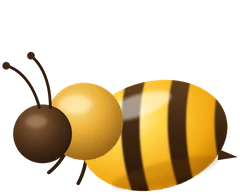
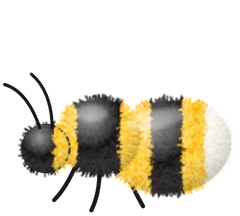
kkotbat: readable labels + orange new badge, 10-color palette without black, bumblebee, ladybugs, fewer critters
Claude-Session: https://claude.ai/code/session_0184yXFLd3iSeN51Kdjs7ciF

diff --git a/kkotbat/css/style.css b/kkotbat/css/style.css
@@ -480,17 +480,19 @@ img { -webkit-user-drag: none; user-select: none; }
 .pf-label {
   position: absolute; left: 50%; bottom: calc(100% + 8px); transform: translate(-50%, 4px);
   padding: 7px 14px; border-radius: 999px; white-space: nowrap;
-  background: linear-gradient(160deg, rgba(255,255,255,.78) 0%, rgba(255,255,255,.5) 100%);
+  background: linear-gradient(160deg, rgba(255,255,255,.94) 0%, rgba(255,255,255,.8) 100%);
   backdrop-filter: blur(16px) saturate(.6); -webkit-backdrop-filter: blur(16px) saturate(.6);
-  border: 1px solid rgba(255,255,255,.9);
-  color: #22351a; font-size: 13.5px; font-weight: 700;
+  border: 1px solid #fff;
+  color: #17280f; font-size: 14px; font-weight: 800; letter-spacing: -.01em;
+  user-select: none; -webkit-user-select: none;
   box-shadow: 0 8px 22px rgba(16, 60, 30, 0.14), inset 0 1px 0 rgba(255,255,255,.95), inset 0 -1px 0 rgba(255,255,255,.3);
   opacity: 0; transition: opacity .25s, transform .25s; pointer-events: none;
   scale: var(--lk, 1); transform-origin: 50% 100%;
 }
 .pf-new {
   display: none; margin-right: 6px; padding: 2px 8px; border-radius: 999px;
-  background: rgba(78,154,31,.12); border: 1px solid rgba(78,154,31,.18); color: #3f7a1f; font-size: 12px; font-weight: 700;
+  background: linear-gradient(180deg, #ff9f2e, #ff7a1a); border: 0; color: #fff; font-size: 12px; font-weight: 800;
+  box-shadow: 0 2px 6px rgba(255, 110, 20, .35);
 }
 .plot-flower:hover .pf-label, .plot-flower:focus-visible .pf-label,
 .plot-flower.is-labeled .pf-label, .plot-flower.is-latest .pf-label { opacity: 1; transform: translate(-50%, 0); }
@@ -644,12 +646,12 @@ body.is-planting .zoom-ctl, body.is-growing .zoom-ctl, body.is-blooming .zoom-ct
 .world::after { content: ''; position: absolute; inset: 0; pointer-events: none; box-shadow: inset 0 0 0 3px rgba(255,255,255,.35), inset 0 0 140px 30px rgba(18,70,8,.35); }
 
 /* 꿀벌 */
-.bee { position: absolute; left: -32px; top: -26px; pointer-events: none; will-change: transform; filter: drop-shadow(0 7px 5px rgba(30, 60, 20, 0.22)); }
-.bee .bee-art { position: relative; width: 64px; height: 52px; scale: var(--zk, 1); }
+.bee { position: absolute; left: -30px; top: -27px; pointer-events: none; will-change: transform; filter: drop-shadow(0 7px 5px rgba(30, 60, 20, 0.22)); }
+.bee .bee-art { position: relative; width: 60px; height: 54px; scale: var(--zk, 1); }
 .bee .bee-art img { position: absolute; inset: 0; width: 100%; height: 100%; }
 .bee .bee-wing { animation: buzz .06s linear infinite alternate; }
-.bee .bee-wing-back { transform-origin: 36% 50%; animation-delay: .03s; }
-.bee .bee-wing-front { transform-origin: 38% 51%; }
+.bee .bee-wing-back { transform-origin: 45% 49%; animation-delay: .03s; }
+.bee .bee-wing-front { transform-origin: 45% 50%; }
 @keyframes buzz { from { transform: scaleY(1) rotate(0deg); } to { transform: scaleY(.45) rotate(-6deg); } }
 .butterfly .bf { scale: var(--zk, 1); }
 @media (prefers-reduced-motion: reduce) { .bee .bee-wing { animation: none; } }
@@ -685,3 +687,7 @@ body.is-planting .zoom-ctl, body.is-growing .zoom-ctl, body.is-blooming .zoom-ct
 @keyframes pick-in { from { opacity: 0; transform: translate(-50%, 10px); } }
 @keyframes pick-shake { 25% { transform: translate(calc(-50% - 6px), 0); } 75% { transform: translate(calc(-50% + 6px), 0); } }
 @media (max-width: 600px) { .pick-hint { font-size: 13px; padding-left: 16px; bottom: 20px; } }
+
+/* ───────── 무당벌레 ───────── */
+.ladybug { position: absolute; left: 0; top: 0; width: 0; height: 0; pointer-events: none; will-change: transform; }
+.ladybug img { position: absolute; width: 24px; height: auto; left: -12px; top: -13px; filter: drop-shadow(0 3px 2px rgba(30, 60, 20, .35)); }

diff --git a/kkotbat/js/ladybugs.js b/kkotbat/js/ladybugs.js
@@ -1,0 +1,83 @@
+// 꽃밭의 무당벌레 — 처음 1마리, 꽃 12송이마다 1마리 (최대 2마리)
+// 풀밭을 천천히 기어다니다가 꽃 밑동에서 잠깐 쉬었다가 다시 움직임.
+
+const BASE = 1;
+const PER_FLOWERS = 12;
+const MAX = 2;
+
+export class Ladybugs {
+  constructor({ layer, getFlowers, getArea, reducedMotion }) {
+    this.layer = layer;
+    this.getFlowers = getFlowers;
+    this.getArea = getArea;
+    this.reducedMotion = reducedMotion;
+    this.list = [];
+    this.last = 0;
+    this.frame = this.frame.bind(this);
+    requestAnimationFrame(this.frame);
+  }
+
+  update(count) {
+    const want = Math.min(MAX, BASE + Math.floor(count / PER_FLOWERS));
+    while (this.list.length < want) this.spawn();
+  }
+
+  randomPoint(from) {
+    const flowers = this.getFlowers();
+    if (flowers.length && Math.random() < 0.7) {
+      const f = flowers[Math.floor(Math.random() * flowers.length)];
+      return { x: f.x + (Math.random() - 0.5) * 70, y: f.y + 6 + Math.random() * 14 };
+    }
+    const a = this.getArea();
+    // 너무 멀리 가지 않게 근처에서 다음 자리를 고름
+    const base = from || { x: a.x0 + Math.random() * (a.x1 - a.x0), y: a.y0 + Math.random() * (a.y1 - a.y0) };
+    return {
+      x: Math.max(a.x0, Math.min(a.x1, base.x + (Math.random() - 0.5) * 360)),
+      y: Math.max(a.y0, Math.min(a.y1, base.y + (Math.random() - 0.5) * 200)),
+    };
+  }
+
+  spawn() {
+    const el = document.createElement('div');
+    el.className = 'ladybug';
+    el.innerHTML = '<img src="assets/ladybug.webp" alt="" draggable="false">';
+    this.layer.appendChild(el);
+    const p = this.randomPoint();
+    const b = { el, x: p.x, y: p.y, heading: Math.random() * 360, target: this.randomPoint(p), rest: 1 + Math.random() * 2, phase: Math.random() * 10 };
+    this.list.push(b);
+    this.render(b, 0);
+  }
+
+  frame(t) {
+    const dt = this.last ? Math.min(0.05, (t - this.last) / 1000) : 0;
+    this.last = t;
+    if (dt && !this.reducedMotion) for (const b of this.list) this.step(b, dt, t / 1000);
+    requestAnimationFrame(this.frame);
+  }
+
+  step(b, dt, time) {
+    if (b.rest > 0) {
+      b.rest -= dt;
+      if (b.rest <= 0) b.target = this.randomPoint(b);
+      this.render(b, 0);
+      return;
+    }
+    const dx = b.target.x - b.x, dy = b.target.y - b.y;
+    const d = Math.hypot(dx, dy);
+    if (d < 6) { b.rest = 1.5 + Math.random() * 3.5; this.render(b, 0); return; }
+    // 가려는 쪽으로 천천히 몸을 돌리며 기어감
+    const want = Math.atan2(dy, dx) * 180 / Math.PI + 90;
+    let diff = ((want - b.heading + 540) % 360) - 180;
+    b.heading += Math.max(-120 * dt, Math.min(120 * dt, diff));
+    const speed = Math.abs(diff) > 40 ? 6 : 26;
+    const rad = (b.heading - 90) * Math.PI / 180;
+    b.x += Math.cos(rad) * speed * dt;
+    b.y += Math.sin(rad) * speed * dt;
+    this.render(b, Math.sin(time * 18 + b.phase) * 3);
+  }
+
+  render(b, wobble) {
+    b.el.style.transform = `translate(${b.x.toFixed(1)}px, ${b.y.toFixed(1)}px) scale(var(--zk, 1)) scaleY(.62) rotate(${(b.heading + wobble).toFixed(1)}deg)`;
+    b.el.style.zIndex = String(Math.round(b.y + 380));
+  }
+}

diff --git a/kkotbat/js/main.js b/kkotbat/js/main.js
@@ -8,6 +8,7 @@ import { FlowerField } from './field.js';
 import { GuestbookPanel } from './guestbook.js';
 import { Butterflies } from './butterflies.js';
 import { Bees } from './bees.js';
+import { Ladybugs } from './ladybugs.js';
 
 // 풀밭(월드) 크기와 지평선 높이
 const WORLD = { width: 3200, height: 2000, horizon: 620 };
@@ -218,7 +219,7 @@ const field = new FlowerField({
   },
 });
 
-/* ───────── 나비: 꽃 4송이마다 1마리 ───────── */
+/* ───────── 나비(꽃 5송이마다, 최대 4) · 호박벌(최대 3) · 무당벌레(최대 2) ───────── */
 const butterflies = new Butterflies({
   layer: $('plots'), reducedMotion,
   getFlowers: () => [...field.flowers.values()].map((f) => ({ x: f.x, y: f.y })),
@@ -229,6 +230,12 @@ const bees = new Bees({
   getArea: () => ({ x0: 300, x1: WORLD.width - 300, y0: WORLD.horizon + 120, y1: WORLD.height - 260 }),
 });
 bees.update(0);
+const ladybugs = new Ladybugs({
+  layer: $('plots'), reducedMotion,
+  getFlowers: () => [...field.flowers.values()].map((f) => ({ x: f.x, y: f.y })),
+  getArea: () => ({ x0: 300, x1: WORLD.width - 300, y0: WORLD.horizon + 200, y1: WORLD.height - 200 }),
+});
+ladybugs.update(0);
 
 /* ───────── 07 방명록 ───────── */
 const guest = new GuestbookPanel({ store, reducedMotion, toast, onClose: () => field.select(null) });
@@ -245,6 +252,7 @@ async function plantFlower(flower) {
   field.sparkle(saved.id);
   butterflies.update(field.flowers.size, { x: saved.x, y: saved.y });
   bees.update(field.flowers.size, { x: saved.x, y: saved.y });
+  ladybugs.update(field.flowers.size);
   await refresh(true);
   toast(`${saved.name}의 꽃이 꽃밭에 심겼어요. 다른 꽃들도 구경해보세요`, 4200);
   window.dispatchEvent(new CustomEvent('kkotbat:planted', { detail: saved }));
@@ -297,7 +305,7 @@ $('findMine').addEventListener('click', async () => {
 /* ───────── 시작 ───────── */
 centerCam();
 seeds.start();
-store.getFlowers().then((list) => { field.renderAll(list); butterflies.update(list.length); bees.update(list.length); });
+store.getFlowers().then((list) => { field.renderAll(list); butterflies.update(list.length); bees.update(list.length); ladybugs.update(list.length); });
 refresh();
 
 let resizeTimer;

diff --git a/kkotbat/js/plantRig.js b/kkotbat/js/plantRig.js
@@ -69,17 +69,16 @@ const BLOOM = [
 // 꽃 색: 산뜻하고 따뜻한 6색 [r, g, b]
 // 꽃 색: 꽃 가운데(inner) → 꽃잎 끝(outer)으로 번지는 그라디언트 6가지
 export const PALETTE = [
-  { name: '선셋',      inner: [255, 224, 150], outer: [255, 96, 120] },
-  { name: '피치',      inner: [255, 238, 200], outer: [255, 132, 72] },
-  { name: '레몬',      inner: [255, 252, 200], outer: [255, 196, 20] },
-  { name: '체리블라썸', inner: [255, 232, 244], outer: [255, 92, 168] },
-  { name: '오션',      inner: [212, 240, 255], outer: [52, 132, 255] },
-  { name: '미드나잇',   inner: [120, 116, 140], outer: [18, 16, 26], dark: true },
-  { name: '스카이',     inner: [236, 250, 255], outer: [96, 200, 255] },
-  { name: '루비',      inner: [255, 190, 170], outer: [214, 18, 46] },
-  { name: '선플라워',   inner: [255, 244, 170], outer: [255, 150, 0] },
-  { name: '네이비',     inner: [170, 196, 255], outer: [28, 48, 150], dark: true },
-  { name: '코랄화이트', inner: [255, 255, 255], outer: [255, 170, 150] },
+  { name: '레드', inner: [255,160,140], outer: [205,8,28] },
+  { name: '스카이', inner: [236,250,255], outer: [80,190,255] },
+  { name: '옐로', inner: [255,252,205], outer: [255,192,10] },
+  { name: '퍼플', inner: [240,220,255], outer: [138,52,230] },
+  { name: '오렌지', inner: [255,236,200], outer: [255,112,16] },
+  { name: '블루', inner: [210,232,255], outer: [40,110,250] },
+  { name: '핑크', inner: [255,234,246], outer: [255,90,170] },
+  { name: '라벤더', inner: [250,244,255], outer: [176,140,250] },
+  { name: '네이비', inner: [170,196,255], outer: [30,50,160], dark: true },
+  { name: '코랄', inner: [255,242,228], outer: [255,118,104] },
 ];
 
 const pick = (arr, missionIndex) => arr[missionIndex % arr.length];
@@ -156,7 +155,7 @@ export function tinted(key, colorIndex) {
         else sat = Math.min(1, Math.max(o[1], 0.82) * Math.min(1, S + 0.1));
         const w = pal.dark ? 0.72 : 0.22;
         let l = srcL * (1 - w) + tl * w + (pal.dark ? 0 : 0.05);
-        if (pal.dark) sat *= 0.55;
+        if (pal.dark) sat *= 0.85;
         l = Math.min(0.95, Math.max(0.05, l));
         out = fromHsl(H, sat, l);
       }

diff --git a/kkotbat/index.html b/kkotbat/index.html
@@ -7,7 +7,7 @@
 <link rel="preconnect" href="https://fonts.googleapis.com">
 <link rel="preconnect" href="https://fonts.gstatic.com" crossorigin>
 <link rel="stylesheet" href="https://fonts.googleapis.com/css2?family=IBM+Plex+Sans+KR:wght@400;500;600;700&display=swap">
-<link rel="stylesheet" href="css/style.css?v=1117b">
+<link rel="stylesheet" href="css/style.css?v=1117c">
 </head>
 <body>
 <div class="app">
@@ -136,6 +136,6 @@
     <div class="toast" id="toast" role="status" aria-live="polite"></div>
   </main>
 </div>
-<script type="module" src="js/main.js?v=1117b"></script>
+<script type="module" src="js/main.js?v=1117c"></script>
 </body>
 </html>

diff --git a/kkotbat/js/butterflies.js b/kkotbat/js/butterflies.js
@@ -1,8 +1,8 @@
-// 꽃밭의 나비 — 꽃이 많아질수록 나비가 늘어남 (꽃 4송이마다 1마리, 최대 12마리)
+// 꽃밭의 나비 — 꽃이 많아질수록 나비가 늘어남 (꽃 5송이마다 1마리, 최대 4마리)
 // 나비는 꽃에서 꽃으로 팔랑팔랑 날아다니고, 꽃 위에서 잠깐 머물렀다가 다음 꽃으로 감.
 
-const PER_FLOWERS = 4;
-const MAX = 12;
+const PER_FLOWERS = 5;
+const MAX = 4;
 // 나비 그림(이미지)을 왼쪽 날개 · 오른쪽 날개 · 몸통으로 나눠 날갯짓시킴
 const COLORS = ['blue', 'pink', 'lilac', 'mint', 'peach', 'butter'];
 function butterflySVG(color) {

diff --git a/kkotbat/js/bees.js b/kkotbat/js/bees.js
@@ -1,9 +1,9 @@
-// 꽃밭의 꿀벌 — 처음부터 2마리, 꽃 5송이마다 1마리씩 늘어남 (최대 8마리)
+// 꽃밭의 호박벌 — 처음 1마리, 꽃 8송이마다 1마리씩 늘어남 (최대 3마리)
 // 날개를 빠르게 붕붕 떨며 꽃(없으면 풀밭 여기저기)을 옮겨 다니고, 꽃 위에서 잠깐 맴돎.
 
-const BASE = 2;
-const PER_FLOWERS = 5;
-const MAX = 8;
+const BASE = 1;
+const PER_FLOWERS = 8;
+const MAX = 3;
 
 // 일러스트 꿀벌: 뒷날개 · 몸통 · 앞날개 세 장을 겹쳐서 날개만 붕붕 떨게 함
 function beeSVG() {
